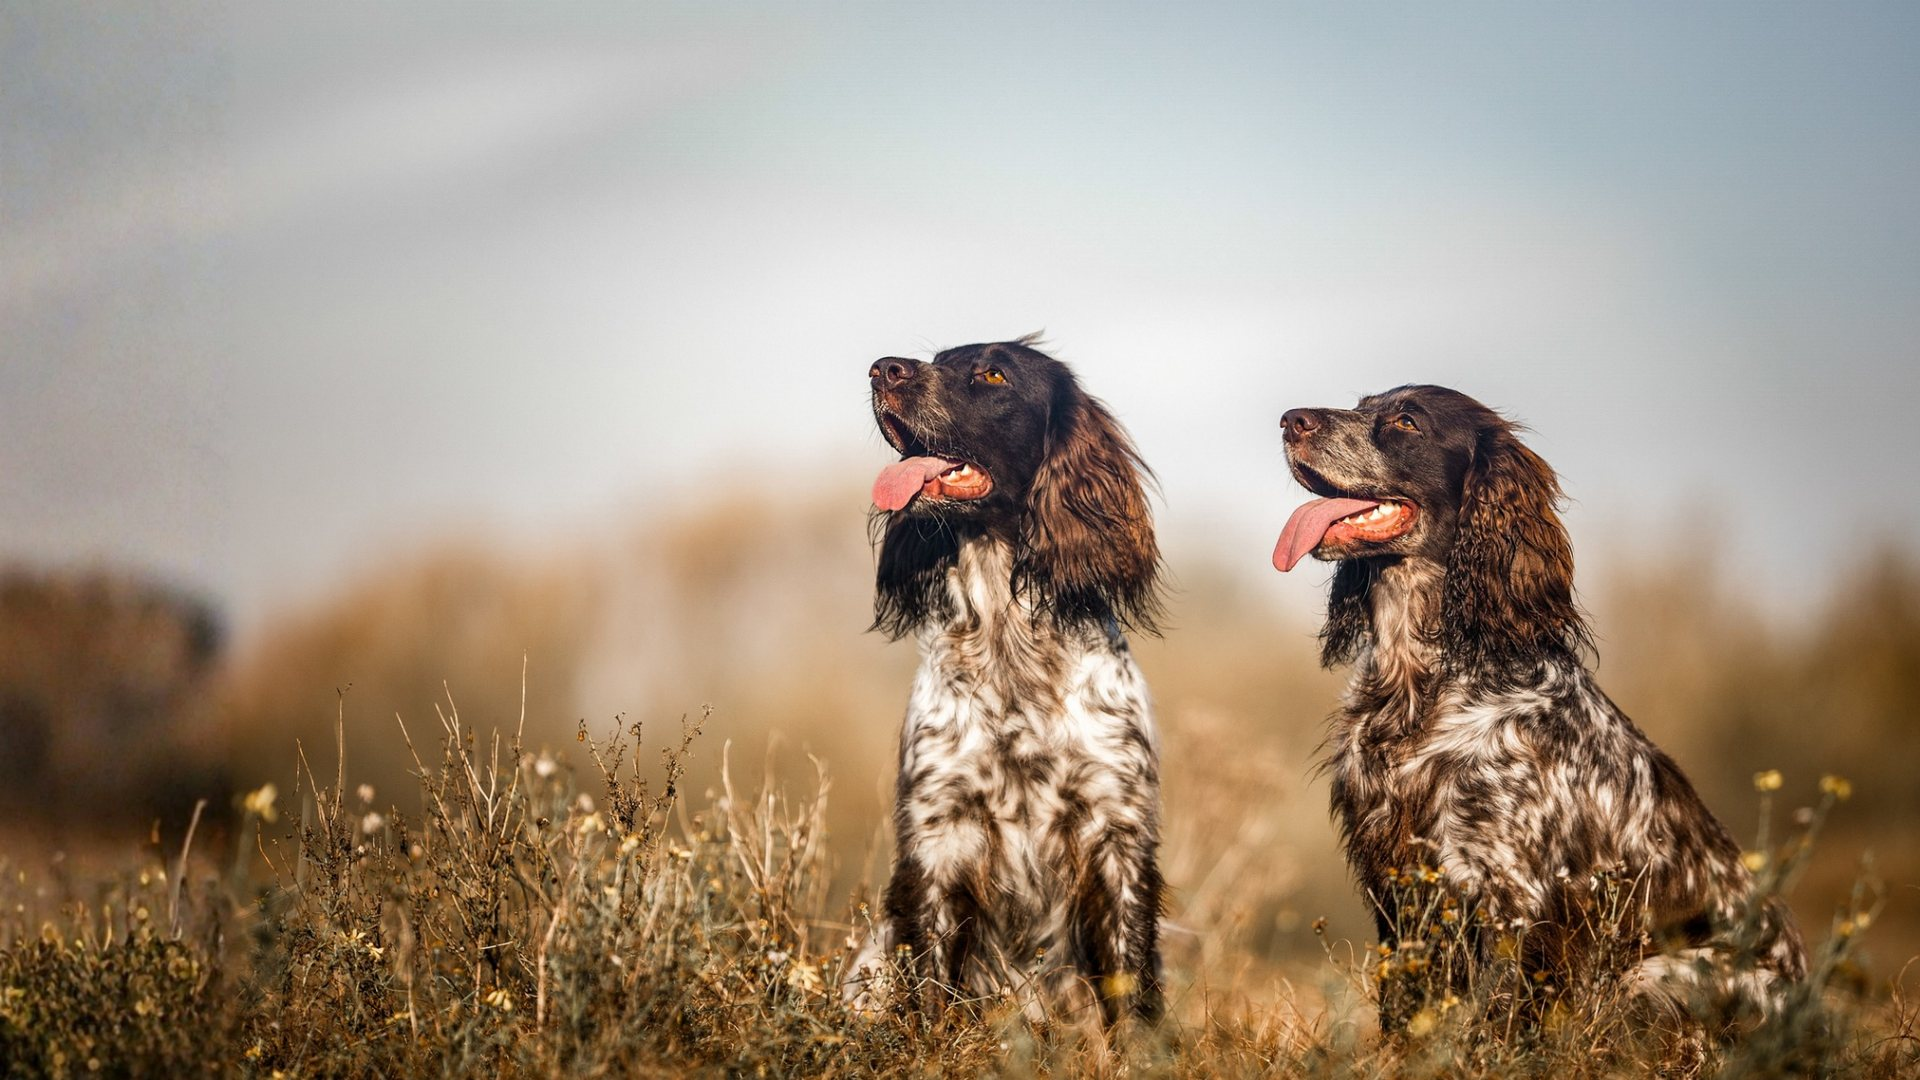
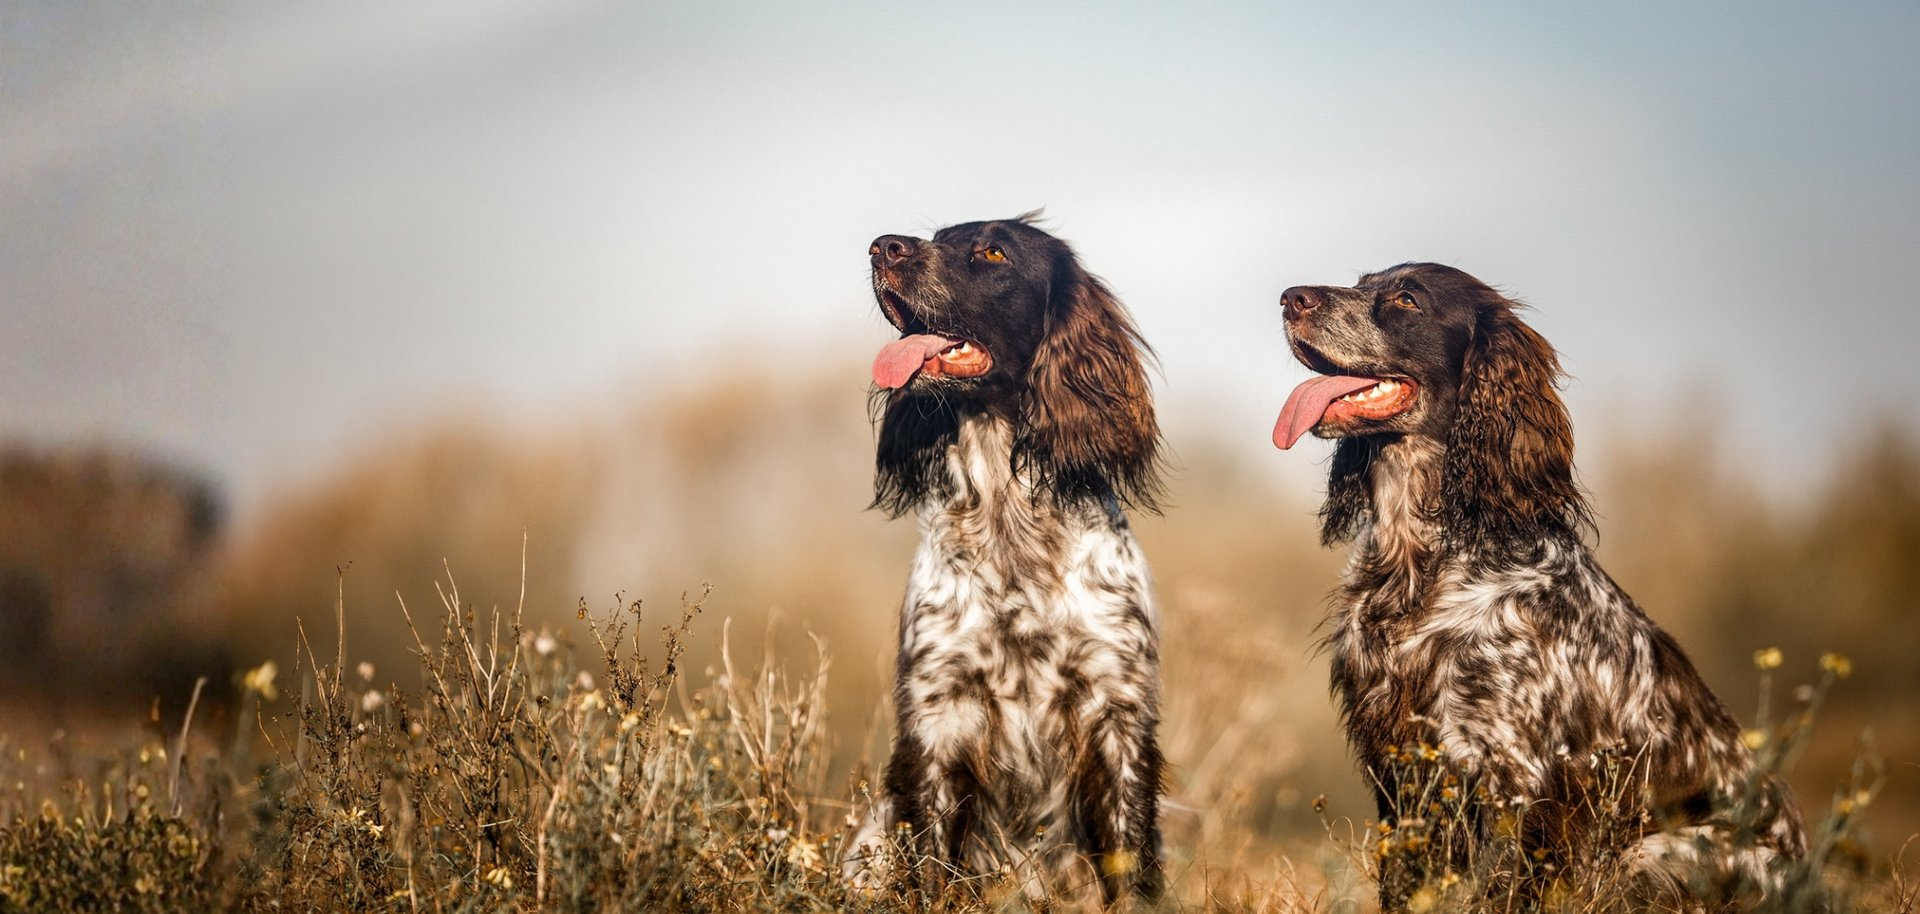
Fix hero sizing bug, tighten dog-profile layout, adopt script/serif lockup
- Fix hero: replace vh-based min-height with a fixed aspect-ratio so the
  crop no longer over-zooms on wide monitors; re-crop the source photo
  with gentler centering to keep full dog bodies visible
- Give the hero name a script-over-serif lockup ("Kennel de" / "Zeta
  Centauri"), matching the kennel's existing visual identity
- Remove the hero tagline paragraph
- Widen the dog-profile photo column (300px -> 380px) after it read
  too small; constrain long footnote paragraphs to a readable width
  instead of stretching edge-to-edge
- Strip the marketing-style banner + blurb from litters.html to match
  the plainer tone used elsewhere
- Fix 4 pages left without a real <h1> after banner removals: promote
  each dog's name to the page's actual h1 on its own profile page, and
  add a visually-hidden h1 on the two-subject overview pages

diff --git a/styles.css b/styles.css
@@ -146,16 +146,20 @@ p  { margin: 0 0 1.1em; }
 
 /* ---- Hero ------------------------------------------------------------ */
 .hero {
-  position: relative; min-height: 86vh; display: flex; align-items: flex-end;
+  position: relative; display: flex; align-items: flex-end;
   color: var(--cream);
+  aspect-ratio: 2.1 / 1; max-height: 720px;
   background:
     linear-gradient(90deg, rgba(28,24,18,.64) 0%, rgba(28,24,18,.34) 36%, rgba(28,24,18,0) 62%),
     linear-gradient(180deg, rgba(43,39,33,.10) 0%, rgba(43,39,33,.20) 55%, rgba(43,39,33,.72) 100%),
     url('assets/photos/web-hero.jpg');
-  background-size: cover; background-position: center 42%;
+  background-size: cover; background-position: center;
 }
+@media (max-width: 700px) { .hero { aspect-ratio: 4 / 5; } }
 .hero__inner { width: min(100% - 2.5rem, var(--maxw)); margin-inline: auto; padding-block: clamp(2.5rem, 6vw, 5rem); }
-.hero__name { font-family: var(--serif); font-weight: 500; font-size: clamp(2.6rem, 7vw, 5rem); letter-spacing: .01em; margin: 0; color: var(--cream); text-shadow: 0 2px 18px rgba(0,0,0,.35); }
+.hero__name { margin: 0; }
+.hero__name-script { display: block; font-family: var(--script); font-weight: 400; font-size: clamp(1.7rem, 3.6vw, 2.6rem); line-height: 1; color: var(--cream); margin-bottom: -.15em; text-shadow: 0 2px 14px rgba(0,0,0,.35); }
+.hero__name-main { display: block; font-family: var(--serif); font-weight: 500; font-size: clamp(2.6rem, 7vw, 5rem); letter-spacing: .01em; line-height: 1.05; color: var(--cream); text-shadow: 0 2px 18px rgba(0,0,0,.35); }
 .hero__sub  { font-family: var(--sans); font-weight: 600; letter-spacing: .28em; text-transform: uppercase; font-size: clamp(.72rem, 1.6vw, .9rem); color: var(--gold-2); margin: 0 0 1rem; text-shadow: 0 1px 10px rgba(0,0,0,.55); }
 .hero__tag  { font-family: var(--serif); font-style: italic; font-size: clamp(1.15rem, 2.4vw, 1.6rem); max-width: 34ch; margin: .8rem 0 1.8rem; color: var(--cream); text-shadow: 0 1px 12px rgba(0,0,0,.4); }
 .hero__credit { position: absolute; right: 1rem; bottom: .6rem; font: 400 .7rem/1 var(--sans); color: rgba(245,239,226,.75); letter-spacing: .02em; }
@@ -188,14 +192,22 @@ img.ratio-wide, img.ratio-portrait, img.ratio-square {
 .grid-3 { grid-template-columns: repeat(3, 1fr); }
 @media (max-width: 820px) { .grid-2, .grid-3 { grid-template-columns: 1fr; } }
 
+/* Dog profile hero: photo intentionally smaller than the text column */
+.profile-grid { grid-template-columns: minmax(0, 380px) 1fr; }
+.profile-grid.profile-grid--reverse { grid-template-columns: 1fr minmax(0, 380px); }
+@media (max-width: 820px) { .profile-grid, .profile-grid.profile-grid--reverse { grid-template-columns: 1fr; } }
+
 .card {
   background: var(--paper); border-radius: var(--radius); overflow: hidden;
   box-shadow: var(--shadow); display: flex; flex-direction: column;
 }
 .card__body { padding: 1.4rem 1.5rem 1.7rem; }
-.card__name { font-family: var(--script); font-size: 2.4rem; line-height: .9; color: var(--green); margin: 0 0 .1em; }
+.card__name { font-family: var(--script); font-size: clamp(2.8rem, 5vw, 4rem); line-height: .9; color: var(--green); margin: 0 0 .1em; }
 .card__formal { font-family: var(--serif); font-size: 1.05rem; color: var(--ink); letter-spacing: .04em; text-transform: uppercase; margin: 0 0 .8rem; }
-.card__role { font: 600 .72rem/1 var(--sans); letter-spacing: .16em; text-transform: uppercase; color: var(--gold); }
+.card__role { font: 600 .72rem/1 var(--sans); letter-spacing: .16em; text-transform: uppercase; color: var(--ink-soft); }
+.dog-titles { font: 600 .88rem/1.5 var(--sans); color: var(--green); margin: .3rem 0 1rem; }
+.link-line { font-size: .95rem; }
+.link-line a { margin-right: .3rem; }
 
 /* Door cards (home) */
 .door { position: relative; display: block; overflow: hidden; border-radius: var(--radius); box-shadow: var(--shadow); color: var(--cream); min-height: 300px; }
@@ -252,7 +264,9 @@ img.ratio-wide, img.ratio-portrait, img.ratio-square {
 .door-card__label p { margin: .3rem 0 0; color: rgba(245,239,226,.88); }
 .door-card__label .tag-row { margin-top: .8rem; }
 
+.sr-only { position: absolute; width: 1px; height: 1px; padding: 0; margin: -1px; overflow: hidden; clip: rect(0,0,0,0); white-space: nowrap; border: 0; }
+
 /* ---- Utility --------------------------------------------------------- */
 .stack > * + * { margin-top: 1.1rem; }
 .mt0 { margin-top: 0; }
-.note { font-size: .85rem; color: var(--ink-soft); font-style: italic; }
+.note { font-size: .85rem; color: var(--ink-soft); font-style: italic; max-width: 46ch; }

diff --git a/dogs.html b/dogs.html
@@ -31,17 +31,18 @@
   </header>
 
   <main id="main">
+    <h1 class="sr-only">Our Dogs — Grace &amp; Astra</h1>
 
     <!-- ===== GRACE ===== -->
     <section class="section section--sand2" style="padding-top:clamp(3rem,6vw,4.5rem);">
       <div class="container">
-        <div class="grid grid-2" style="align-items:center;">
+        <div class="grid profile-grid" style="align-items:center;">
           <img class="ratio-portrait" src="assets/photos/web-grace.jpg" alt="Grace in the heather at three years old">
           <div class="stack">
             <div>
-              <p class="card__role">Dam</p>
-              <p class="card__name">Grace</p>
+              <h2 class="card__name">Grace</h2>
               <p class="card__formal">Lotka z Krainy Bocianich Gniazd</p>
+              <p class="dog-titles">Dutch Champion · Belgian Champion · Polish Champion</p>
             </div>
             <ul class="stats">
               <li><b>Born</b><span>08.12.2018 · Poland</span></li>
@@ -49,14 +50,9 @@
               <li><b>Genetics</b><span>Embark: <a href="http://embk.me/lotkazkrainybocianichgniazd" target="_blank" rel="noopener">public profile ↗</a></span></li>
             </ul>
             <p class="note" style="margin-top:.2rem;">*Additional x-rays of elbows, spine and hips were done at age 5 (2023): no change in HD score, elbows 0/0, no abnormalities in the spine (images available on request).</p>
-            <div class="tag-row">
-              <span class="tag">Dutch Champion</span>
-              <span class="tag">Belgian Champion</span>
-              <span class="tag">Polish Champion</span>
-            </div>
-            <p class="btn-row" style="margin-top:.6rem;">
-              <a class="btn btn-outline" href="https://www.dutchdogdata.nl/Home/Details/1831390" target="_blank" rel="noopener">Full pedigree ↗</a>
-              <a class="btn btn-outline" href="dog-grace.html">Full profile &amp; show results →</a>
+            <p class="link-line">
+              <a href="https://www.dutchdogdata.nl/Home/Details/1831390" target="_blank" rel="noopener">Full pedigree ↗</a> ·
+              <a href="dog-grace.html">Full profile &amp; show results →</a>
             </p>
           </div>
         </div>
@@ -66,12 +62,12 @@
     <!-- ===== ASTRA ===== -->
     <section class="section">
       <div class="container">
-        <div class="grid grid-2" style="align-items:center;">
+        <div class="grid profile-grid profile-grid--reverse" style="align-items:center;">
           <div class="stack">
             <div>
-              <p class="card__role">Dutch Champion &amp; Dutch Youth Champion</p>
-              <p class="card__name">Astra</p>
+              <h2 class="card__name">Astra</h2>
               <p class="card__formal">Astra de Zeta Centauri</p>
+              <p class="dog-titles">Dutch Champion · Dutch Youth Champion</p>
             </div>
             <ul class="stats">
               <li><b>Born</b><span>26.02.2023</span></li>
@@ -82,14 +78,9 @@
               <li><b>Parents</b><span>Irokez z Dobrej Gliny &amp; <a href="dog-grace.html">Lotka z Krainy Bocianich Gniazd</a> — that's Grace</span></li>
             </ul>
             <p class="note" style="margin-top:.2rem;">*Health tests were done in Poland, so they don't appear on DutchDogData — results and images available on request.</p>
-            <div class="tag-row">
-              <span class="tag">Agility</span>
-              <span class="tag">Nosework / detection</span>
-              <span class="tag">Dutch Champion</span>
-            </div>
-            <p class="btn-row" style="margin-top:.6rem;">
-              <a class="btn btn-outline" href="https://www.dutchdogdata.nl/Home/Details/1921477" target="_blank" rel="noopener">Full pedigree ↗</a>
-              <a class="btn btn-outline" href="dog-astra.html">Full profile &amp; show results →</a>
+            <p class="link-line">
+              <a href="https://www.dutchdogdata.nl/Home/Details/1921477" target="_blank" rel="noopener">Full pedigree ↗</a> ·
+              <a href="dog-astra.html">Full profile &amp; show results →</a>
             </p>
           </div>
           <img class="ratio-portrait" src="assets/photos/web-astra.jpg" alt="Astra on a fallen log, backlit by autumn light">

diff --git a/dog-astra.html b/dog-astra.html
@@ -35,12 +35,12 @@
     <section class="section section--sand2" style="padding-bottom:clamp(2rem,4vw,3rem);">
       <div class="container">
         <a class="back-link" href="dogs.html">← Our Dogs</a>
-        <div class="grid grid-2" style="align-items:center;">
+        <div class="grid profile-grid profile-grid--reverse" style="align-items:center;">
           <div class="stack">
             <div>
-              <p class="card__role">Dutch Champion &amp; Dutch Youth Champion</p>
-              <p class="card__name">Astra</p>
+              <h1 class="card__name">Astra</h1>
               <p class="card__formal">Astra de Zeta Centauri</p>
+              <p class="dog-titles">Dutch Champion · Dutch Youth Champion</p>
             </div>
             <p class="note">Placeholder — a line about Astra's character goes here.</p>
             <ul class="stats">
@@ -52,13 +52,7 @@
               <li><b>Parents</b><span>Irokez z Dobrej Gliny &amp; <a href="dog-grace.html">Lotka z Krainy Bocianich Gniazd</a> — that's Grace</span></li>
             </ul>
             <p class="note" style="margin-top:.2rem;">*Health tests were done in Poland, so they don't appear on DutchDogData — results and images available on request.</p>
-            <div class="tag-row">
-              <span class="tag">Dutch Champion 2026</span>
-              <span class="tag">Dutch Youth Champion 2024</span>
-              <span class="tag">Agility</span>
-              <span class="tag">Nosework / detection</span>
-            </div>
-            <p><a class="btn btn-outline" href="https://www.dutchdogdata.nl/Home/Details/1921477" target="_blank" rel="noopener">Full pedigree on DutchDogData ↗</a></p>
+            <p class="link-line"><a href="https://www.dutchdogdata.nl/Home/Details/1921477" target="_blank" rel="noopener">Full pedigree on DutchDogData ↗</a></p>
           </div>
           <img class="ratio-portrait" src="assets/photos/web-astra.jpg" alt="Astra on a fallen log, backlit by autumn light">
         </div>

diff --git a/dog-grace.html b/dog-grace.html
@@ -35,13 +35,13 @@
     <section class="section section--sand2" style="padding-bottom:clamp(2rem,4vw,3rem);">
       <div class="container">
         <a class="back-link" href="dogs.html">← Our Dogs</a>
-        <div class="grid grid-2" style="align-items:center;">
+        <div class="grid profile-grid" style="align-items:center;">
           <img class="ratio-portrait" src="assets/photos/web-grace.jpg" alt="Grace in the heather at three years old">
           <div class="stack">
             <div>
-              <p class="card__role">Dam</p>
-              <p class="card__name">Grace</p>
+              <h1 class="card__name">Grace</h1>
               <p class="card__formal">Lotka z Krainy Bocianich Gniazd</p>
+              <p class="dog-titles">Dutch Champion · Belgian Champion · Polish Champion</p>
             </div>
             <p class="note">Placeholder — a line about Grace's character goes here.</p>
             <ul class="stats">
@@ -50,12 +50,7 @@
               <li><b>Genetics</b><span>Embark: <a href="http://embk.me/lotkazkrainybocianichgniazd" target="_blank" rel="noopener">public profile ↗</a></span></li>
             </ul>
             <p class="note" style="margin-top:.2rem;">*Additional x-rays of elbows, spine and hips were done at age 5 (2023): no change in HD score, elbows 0/0, no abnormalities in the spine (images available on request).</p>
-            <div class="tag-row">
-              <span class="tag">Dutch Champion 2021</span>
-              <span class="tag">Belgian Champion 2022</span>
-              <span class="tag">Polish Champion 2023</span>
-            </div>
-            <p><a class="btn btn-outline" href="https://www.dutchdogdata.nl/Home/Details/1831390" target="_blank" rel="noopener">Full pedigree on DutchDogData ↗</a></p>
+            <p class="link-line"><a href="https://www.dutchdogdata.nl/Home/Details/1831390" target="_blank" rel="noopener">Full pedigree on DutchDogData ↗</a></p>
           </div>
         </div>
       </div>

diff --git a/litters.html b/litters.html
@@ -31,27 +31,16 @@
   </header>
 
   <main id="main">
+    <h1 class="sr-only">Litters</h1>
 
-    <section class="section">
-      <div class="container center">
-        <p class="eyebrow">Litters</p>
-        <h1>A litter, done carefully</h1>
-        <hr class="rule">
-        <p class="lead measure">
-          We plan rarely and deliberately. When we do, every decision — the pairing, the
-          testing, the raising — is made for the puppies who'll live it.
-        </p>
-      </div>
-    </section>
-
-    <section class="section" style="padding-top:0;">
+    <section class="section" style="padding-bottom:0;">
       <div class="container">
         <div class="grid grid-2">
           <a class="door-card" href="litter-planned.html">
             <img src="assets/photos/web-puppies-wide.jpg" alt="Astra and Bueno's planned litter">
             <div class="door-card__label">
               <p class="card__role" style="color:var(--gold-2);">Planned · expected late October</p>
-              <p class="card__name">Astra &amp; Bueno</p>
+              <h2 class="card__name">Astra &amp; Bueno</h2>
               <p>Puppies' pedigree COI 3%. Health results and pairing details.</p>
             </div>
           </a>
@@ -59,7 +48,7 @@
             <img src="assets/photos/web-litter-pair.jpg" alt="Grace's first litter, Litter A">
             <div class="door-card__label">
               <p class="card__role" style="color:var(--gold-2);">Litter A · 2023</p>
-              <p class="card__name">Grace's First Litter</p>
+              <h2 class="card__name">Grace's First Litter</h2>
               <p>The litter that carried Nell's name and legacy forward.</p>
             </div>
           </a>

diff --git a/index.html b/index.html
@@ -39,10 +39,8 @@
          Recommended: wide landscape, the two dogs, open sky/sand for text. -->
     <section class="hero">
       <div class="hero__inner">
-        <p class="hero__sub">Polish Hunting Spaniels · Kennemerland Dunes, NL</p>
-        <h1 class="hero__name">Zeta Centauri</h1>
-        <p class="hero__tag">Spaniels raised for sound minds and busy noses — in the dunes where they run.</p>
-        <div class="btn-row">
+        <h1 class="hero__name"><span class="hero__name-script">Kennel de</span><span class="hero__name-main">Zeta Centauri</span></h1>
+        <div class="btn-row" style="margin-top:1.4rem;">
           <a class="btn btn-primary" href="dogs.html">Meet our dogs</a>
           <a class="btn btn-ghost" href="litters.html">Puppies &amp; litters</a>
         </div>
